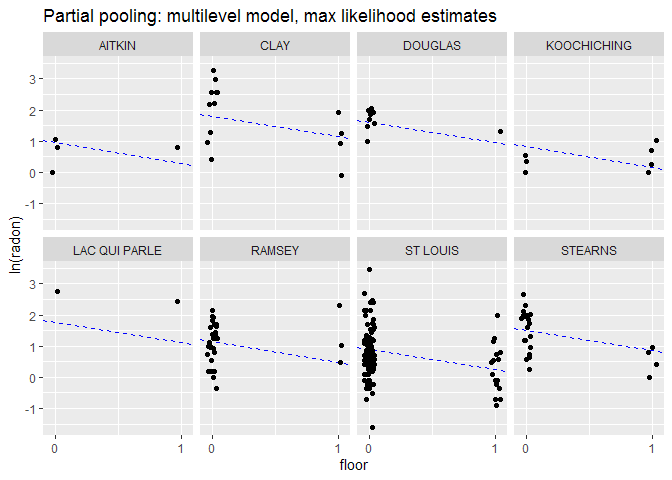
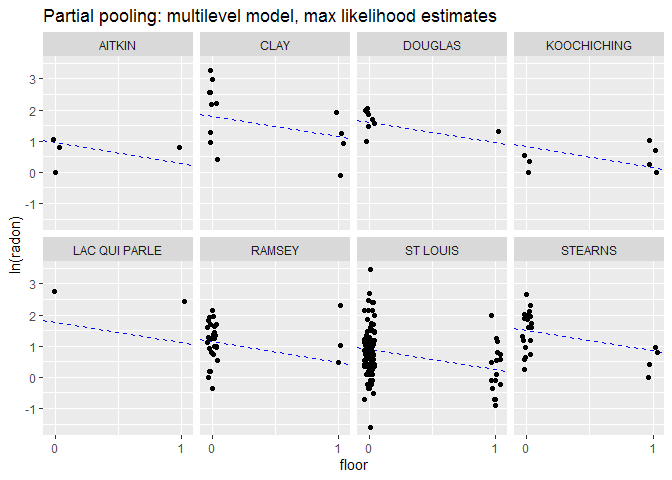
Fix equation display

diff --git a/tutorials/mlvl03_multilevel_models_3.md b/tutorials/mlvl03_multilevel_models_3.md
@@ -99,57 +99,57 @@ radon_dat <- merge(radon_dat,uranium_dat,by="county",all.x=TRUE)
 radon_dat[sample(1:nrow(radon_dat),50),] #print a sample of 50 rows to check
 ```
 
-    ##            county    floor radon  log_radon floor_x     uppm        logu
-    ## 598        RAMSEY basement   1.7  0.5306283       0 0.658327 -0.41805351
-    ## 742      ST LOUIS basement   1.9  0.6418539       0 0.622088 -0.47467372
-    ## 459      MARSHALL basement   8.3  2.1162555       0 1.013860  0.01376483
-    ## 798       STEARNS basement   2.6  0.9555114       0 1.123440  0.11639541
-    ## 356      HENNEPIN basement   2.6  0.9555114       0 0.907991 -0.09652081
-    ## 44          ANOKA    first   1.8  0.5877867       1 0.428565 -0.84731286
-    ## 145    COTTONWOOD    first   0.0 -2.3025851       1 1.404330  0.33956032
-    ## 435      LE SUEUR basement   4.5  1.5040774       0 1.214640  0.19444774
-    ## 55          ANOKA basement   1.9  0.6418539       0 0.428565 -0.84731286
-    ## 814       STEVENS basement   4.5  1.5040774       0 1.601240  0.47077833
-    ## 614          RICE basement  19.0  2.9444390       0 1.213060  0.19314609
-    ## 535       OLMSTED basement   7.8  2.0541237       0 1.275260  0.24315008
-    ## 635        ROSEAU    first   1.7  0.5306283       1 0.808928 -0.21204536
-    ## 849    WASHINGTON basement   6.5  1.8718022       0 0.862876 -0.14748428
-    ## 76     BLUE EARTH basement   7.2  1.9740810       0 1.312080  0.27161366
-    ## 519        NORMAN    first   1.6  0.4700036       1 1.303720  0.26522172
-    ## 552    PENNINGTON basement   5.8  1.7578579       0 0.928646 -0.07402767
-    ## 854    WASHINGTON basement   1.0  0.0000000       0 0.862876 -0.14748428
-    ## 85     BLUE EARTH basement   6.9  1.9315214       0 1.312080  0.27161366
-    ## 866    WASHINGTON basement   1.9  0.6418539       0 0.862876 -0.14748428
-    ## 171        DAKOTA basement   9.6  2.2617631       0 0.976144 -0.02414516
-    ## 214        DAKOTA basement   3.8  1.3350011       0 0.976144 -0.02414516
-    ## 826       WABASHA basement   5.9  1.7749524       0 1.161930  0.15008242
-    ## 239     FARIBAULT basement   0.1 -2.3025851       0 1.343160  0.29502505
-    ## 66       BELTRAMI    first   4.4  1.4816045       1 0.552472 -0.59335253
-    ## 419 LAC QUI PARLE basement  16.0  2.7725887       0 1.364830  0.31102988
-    ## 90          BROWN    first   4.0  1.3862944       1 1.319930  0.27757870
-    ## 127          CLAY basement  26.6  3.2809112       0 1.410270  0.34378118
-    ## 212        DAKOTA basement   4.8  1.5686159       0 0.976144 -0.02414516
-    ## 385        ITASCA basement   2.6  0.9555114       0 0.515124 -0.66334763
-    ## 365      HENNEPIN basement   4.2  1.4350845       0 0.907991 -0.09652081
-    ## 268      HENNEPIN basement   1.6  0.4700036       0 0.907991 -0.09652081
-    ## 800       STEARNS basement   1.9  0.6418539       0 1.123440  0.11639541
-    ## 527       OLMSTED basement   3.2  1.1631508       0 1.275260  0.24315008
-    ## 629        ROSEAU    first   3.4  1.2237754       1 0.808928 -0.21204536
-    ## 792       STEARNS    first   1.5  0.4054651       1 1.123440  0.11639541
-    ## 762      ST LOUIS    first   1.8  0.5877867       1 0.622088 -0.47467372
-    ## 329      HENNEPIN    first   7.6  2.0281482       1 0.907991 -0.09652081
-    ## 548    OTTER TAIL basement   3.2  1.1631508       0 0.814867 -0.20473037
-    ## 223         DODGE basement   7.2  1.9740810       0 1.301940  0.26385546
-    ## 867    WASHINGTON basement   6.6  1.8870696       0 0.862876 -0.14748428
-    ## 802       STEARNS basement   5.0  1.6094379       0 1.123440  0.11639541
-    ## 111          CASS basement   5.3  1.6677068       0 0.544319 -0.60821981
-    ## 502         MOWER basement   8.0  2.0794415       0 1.298140  0.26093247
-    ## 317      HENNEPIN basement   2.7  0.9932518       0 0.907991 -0.09652081
-    ## 123          CLAY    first   0.9 -0.1053605       1 1.410270  0.34378118
-    ## 364      HENNEPIN basement   3.0  1.0986123       0 0.907991 -0.09652081
-    ## 116      CHIPPEWA basement   9.4  2.2407097       0 1.314800  0.27368456
-    ## 507         MOWER basement  24.0  3.1780538       0 1.298140  0.26093247
-    ## 457      MARSHALL basement  48.2  3.8753590       0 1.013860  0.01376483
+    ##          county    floor radon   log_radon floor_x     uppm        logu
+    ## 790     STEARNS    first   2.6  0.95551145       1 1.123440  0.11639541
+    ## 645       SCOTT    first   2.0  0.69314718       1 1.065150  0.06311563
+    ## 726    ST LOUIS basement   1.1  0.09531018       0 0.622088 -0.47467372
+    ## 833      WADENA basement   2.9  1.06471074       0 0.510671 -0.67202973
+    ## 526     OLMSTED basement   2.3  0.83290912       0 1.275260  0.24315008
+    ## 251     GOODHUE basement  14.3  2.66025954       0 1.217270  0.19661065
+    ## 426        LAKE basement   1.5  0.40546511       0 0.500776 -0.69159638
+    ## 914      WRIGHT basement   9.5  2.25129180       0 0.913909 -0.09002427
+    ## 567        POLK basement   9.6  2.26176310       0 1.304880  0.26611108
+    ## 610        RICE basement   9.7  2.27212589       0 1.213060  0.19314609
+    ## 643       SCOTT basement   1.2  0.18232156       0 1.065150  0.06311563
+    ## 472      MCLEOD basement   4.4  1.48160454       0 1.150760  0.14042259
+    ## 342    HENNEPIN basement   7.6  2.02814825       0 0.907991 -0.09652081
+    ## 605     REDWOOD basement   7.4  2.00148000       0 1.442420  0.36632226
+    ## 908      WRIGHT basement   2.1  0.74193734       0 0.913909 -0.09002427
+    ## 256     GOODHUE basement  43.5  3.77276094       0 1.217270  0.19661065
+    ## 165      DAKOTA    first   2.8  1.02961942       1 0.976144 -0.02414516
+    ## 84   BLUE EARTH basement   1.8  0.58778666       0 1.312080  0.27161366
+    ## 14        ANOKA basement   0.4 -0.91629073       0 0.428565 -0.84731286
+    ## 50        ANOKA basement   1.7  0.53062825       0 0.428565 -0.84731286
+    ## 905      WRIGHT basement   6.7  1.90210753       0 0.913909 -0.09002427
+    ## 339    HENNEPIN basement   4.6  1.52605630       0 0.907991 -0.09652081
+    ## 644       SCOTT basement   3.2  1.16315081       0 1.065150  0.06311563
+    ## 41        ANOKA basement   1.4  0.33647224       0 0.428565 -0.84731286
+    ## 289    HENNEPIN basement   7.2  1.97408103       0 0.907991 -0.09652081
+    ## 523     OLMSTED basement  10.0  2.30258509       0 1.275260  0.24315008
+    ## 13        ANOKA basement   1.4  0.33647224       0 0.428565 -0.84731286
+    ## 722    ST LOUIS basement   2.3  0.83290912       0 0.622088 -0.47467372
+    ## 672    ST LOUIS basement   3.9  1.36097655       0 0.622088 -0.47467372
+    ## 89        BROWN basement   6.7  1.90210753       0 1.319930  0.27757870
+    ## 411 KOOCHICHING basement   1.7  0.53062825       0 0.414025 -0.88182892
+    ## 724    ST LOUIS basement   1.2  0.18232156       0 0.622088 -0.47467372
+    ## 897      WINONA    first   1.8  0.58778666       1 1.589170  0.46321187
+    ## 19        ANOKA basement   5.9  1.77495235       0 0.428565 -0.84731286
+    ## 903      WINONA basement  11.8  2.46809953       0 1.589170  0.46321187
+    ## 68       BENTON basement   2.7  0.99325177       0 0.866849 -0.14289048
+    ## 225     DOUGLAS basement   7.4  2.00148000       0 1.168490  0.15571232
+    ## 748    ST LOUIS    first   0.9 -0.10536052       1 0.622088 -0.47467372
+    ## 378     HUBBARD basement   1.5  0.40546511       0 0.669920 -0.40059698
+    ## 556        PINE basement   1.9  0.64185389       0 0.849343 -0.16329217
+    ## 486  MILLE LACS basement   5.7  1.74046617       0 0.810536 -0.21005952
+    ## 244    FREEBORN basement   4.2  1.43508453       0 1.251330  0.22420699
+    ## 642       SCOTT    first   2.1  0.74193734       1 1.065150  0.06311563
+    ## 312    HENNEPIN    first   0.7 -0.35667494       1 0.907991 -0.09652081
+    ## 637       SCOTT    first  19.3  2.96010510       1 1.065150  0.06311563
+    ## 653   SHERBURNE basement   2.5  0.91629073       0 0.504879 -0.68343648
+    ## 737    ST LOUIS basement   2.7  0.99325177       0 0.622088 -0.47467372
+    ## 604     REDWOOD basement   8.9  2.18605128       0 1.442420  0.36632226
+    ## 517      NORMAN basement   8.1  2.09186406       0 1.303720  0.26522172
+    ## 448        LYON basement   5.8  1.75785792       0 1.483990  0.39473441
 
 Alternatively, we could have used the function `left_join` from
 `dplyr`  
@@ -221,7 +221,10 @@ uranium as a predictor (0.1) because *logu* is accounting for most of
 the county-level variance.
 
 The following will extract the fixed effects (the estimates of
-\(\beta_0\), \(\beta_1\), \(\beta_2\)):
+![\\beta\_0](https://latex.codecogs.com/png.latex?%5Cbeta_0 "\\beta_0"),
+![\\beta\_1](https://latex.codecogs.com/png.latex?%5Cbeta_1 "\\beta_1"),
+![\\beta\_2](https://latex.codecogs.com/png.latex?%5Cbeta_2
+"\\beta_2")):
 
 ``` r
 fixef(ppfit)
@@ -231,8 +234,9 @@ fixef(ppfit)
     ##   1.4642651  -0.6664446   0.7232005
 
 The following will extract the random effects (or county errors,
-i.e. the deviations of each county from \(\beta_0\), the county-scale
-mean):
+i.e. the deviations of each county from
+![\\beta\_0](https://latex.codecogs.com/png.latex?%5Cbeta_0 "\\beta_0"),
+the county-scale mean):
 
 ``` r
 ranef(ppfit)$county
@@ -341,7 +345,9 @@ head(coef(ppfit)$county)
     ## BIG STONE    1.441176 -0.6664446 0.7232005
 
 The first coefficient column here (`(Intercept)`) is the sum of the
-overall intercept \(\beta_0\) and the county random effects. That is:
+overall intercept
+![\\beta\_0](https://latex.codecogs.com/png.latex?%5Cbeta_0 "\\beta_0")
+and the county random effects. That is:
 
 ``` r
 head( fixef(ppfit)[1] + ranef(ppfit)$county )
@@ -434,98 +440,98 @@ print(summary(ppfit_bayes)[,c("mean","sd","n_eff","Rhat")],digits=3)
 ```
 
     ##                                              mean     sd n_eff  Rhat
-    ## (Intercept)                              1.46e+00 0.0385  2616 1.000
-    ## floor_x                                 -6.66e-01 0.0686  5404 1.000
-    ## logu                                     7.24e-01 0.0935  2674 1.002
-    ## b[(Intercept) county:AITKIN]            -2.16e-02 0.1482  6227 1.000
-    ## b[(Intercept) county:ANOKA]              8.27e-03 0.1030  3006 1.001
-    ## b[(Intercept) county:BECKER]             1.31e-02 0.1464  5174 1.000
-    ## b[(Intercept) county:BELTRAMI]           1.09e-01 0.1479  3387 1.000
-    ## b[(Intercept) county:BENTON]             4.82e-03 0.1485  5428 1.000
-    ## b[(Intercept) county:BIG_STONE]         -2.43e-02 0.1474  4485 1.000
-    ## b[(Intercept) county:BLUE_EARTH]         1.23e-01 0.1300  3399 1.000
-    ## b[(Intercept) county:BROWN]              4.71e-02 0.1511  5056 1.000
-    ## b[(Intercept) county:CARLTON]           -7.00e-02 0.1345  4285 1.000
-    ## b[(Intercept) county:CARVER]             1.83e-03 0.1419  5292 0.999
-    ## b[(Intercept) county:CASS]               6.43e-02 0.1484  4251 1.000
-    ## b[(Intercept) county:CHIPPEWA]           1.30e-02 0.1423  4388 1.000
-    ## b[(Intercept) county:CHISAGO]            1.88e-02 0.1398  4775 1.000
-    ## b[(Intercept) county:CLAY]               9.39e-02 0.1234  3601 1.000
-    ## b[(Intercept) county:CLEARWATER]        -1.96e-02 0.1421  4776 1.000
-    ## b[(Intercept) county:COOK]              -3.72e-02 0.1509  5091 1.000
-    ## b[(Intercept) county:COTTONWOOD]        -6.97e-02 0.1532  3714 1.000
-    ## b[(Intercept) county:CROW_WING]          3.15e-02 0.1288  5470 1.000
-    ## b[(Intercept) county:DAKOTA]            -7.70e-02 0.0880  3861 0.999
-    ## b[(Intercept) county:DODGE]              1.54e-02 0.1506  4831 0.999
-    ## b[(Intercept) county:DOUGLAS]            4.17e-02 0.1303  4380 1.000
-    ## b[(Intercept) county:FARIBAULT]         -2.12e-01 0.1730  1903 1.001
-    ## b[(Intercept) county:FILLMORE]          -3.16e-02 0.1567  4594 1.000
-    ## b[(Intercept) county:FREEBORN]           1.27e-01 0.1463  3072 1.000
-    ## b[(Intercept) county:GOODHUE]            1.18e-01 0.1304  3378 1.000
-    ## b[(Intercept) county:HENNEPIN]          -3.11e-02 0.0724  3677 0.999
-    ## b[(Intercept) county:HOUSTON]           -1.47e-02 0.1432  5189 0.999
-    ## b[(Intercept) county:HUBBARD]            3.60e-03 0.1476  6537 0.999
-    ## b[(Intercept) county:ISANTI]             1.96e-02 0.1449  5683 1.001
-    ## b[(Intercept) county:ITASCA]            -1.98e-02 0.1283  5442 1.000
-    ## b[(Intercept) county:JACKSON]            5.51e-02 0.1434  4469 1.000
-    ## b[(Intercept) county:KANABEC]           -2.48e-02 0.1502  6463 0.999
-    ## b[(Intercept) county:KANDIYOHI]          7.96e-02 0.1560  4649 1.000
-    ## b[(Intercept) county:KITTSON]            1.08e-02 0.1532  5914 0.999
-    ## b[(Intercept) county:KOOCHICHING]       -1.18e-02 0.1354  5202 1.000
-    ## b[(Intercept) county:LAC_QUI_PARLE]      9.94e-02 0.1615  3555 1.000
-    ## b[(Intercept) county:LAKE]              -1.53e-01 0.1548  2821 1.002
-    ## b[(Intercept) county:LAKE_OF_THE_WOODS]  1.31e-01 0.1652  2707 1.000
-    ## b[(Intercept) county:LE_SUEUR]           2.18e-02 0.1419  4518 1.000
-    ## b[(Intercept) county:LINCOLN]            7.64e-02 0.1521  4302 1.000
-    ## b[(Intercept) county:LYON]               5.37e-02 0.1403  4760 1.000
-    ## b[(Intercept) county:MAHNOMEN]          -9.30e-03 0.1617  5079 0.999
-    ## b[(Intercept) county:MARSHALL]           2.77e-02 0.1365  6298 1.000
-    ## b[(Intercept) county:MARTIN]            -1.23e-01 0.1501  3121 1.000
-    ## b[(Intercept) county:MCLEOD]            -9.79e-02 0.1291  3286 1.000
-    ## b[(Intercept) county:MEEKER]            -4.76e-02 0.1427  4384 1.000
-    ## b[(Intercept) county:MILLE_LACS]        -4.17e-02 0.1551  4708 1.000
-    ## b[(Intercept) county:MORRISON]          -6.87e-02 0.1352  4190 1.001
-    ## b[(Intercept) county:MOWER]              1.44e-02 0.1234  5384 1.000
-    ## b[(Intercept) county:MURRAY]             3.28e-02 0.1629  4612 1.000
-    ## b[(Intercept) county:NICOLLET]           7.44e-02 0.1513  3823 1.000
-    ## b[(Intercept) county:NOBLES]             2.15e-02 0.1508  5391 1.000
-    ## b[(Intercept) county:NORMAN]            -4.97e-02 0.1504  4301 1.000
-    ## b[(Intercept) county:OLMSTED]           -1.60e-01 0.1218  3075 0.999
-    ## b[(Intercept) county:OTTER_TAIL]         6.78e-02 0.1359  3624 1.000
-    ## b[(Intercept) county:PENNINGTON]        -3.88e-02 0.1472  4366 1.000
-    ## b[(Intercept) county:PINE]              -1.19e-01 0.1540  3008 1.000
-    ## b[(Intercept) county:PIPESTONE]          6.97e-03 0.1435  4991 1.000
-    ## b[(Intercept) county:POLK]               5.37e-03 0.1485  4819 0.999
-    ## b[(Intercept) county:POPE]              -2.95e-02 0.1548  5036 1.000
-    ## b[(Intercept) county:RAMSEY]            -5.65e-03 0.1018  4205 1.000
-    ## b[(Intercept) county:REDWOOD]            4.43e-02 0.1436  4751 1.001
-    ## b[(Intercept) county:RENVILLE]          -8.70e-03 0.1523  4651 1.000
-    ## b[(Intercept) county:RICE]               7.49e-02 0.1349  4581 1.000
-    ## b[(Intercept) county:ROCK]              -4.64e-02 0.1520  4419 1.000
-    ## b[(Intercept) county:ROSEAU]             1.18e-01 0.1302  3764 1.001
-    ## b[(Intercept) county:SCOTT]              9.58e-02 0.1308  3342 1.001
-    ## b[(Intercept) county:SHERBURNE]          2.62e-02 0.1365  4768 1.000
-    ## b[(Intercept) county:SIBLEY]            -5.59e-02 0.1442  4514 1.000
-    ## b[(Intercept) county:ST_LOUIS]          -2.08e-01 0.0863  1661 1.001
-    ## b[(Intercept) county:STEARNS]           -3.01e-02 0.1103  6082 1.000
-    ## b[(Intercept) county:STEELE]            -2.26e-02 0.1320  5438 1.000
-    ## b[(Intercept) county:STEVENS]           -8.92e-04 0.1534  5477 1.000
-    ## b[(Intercept) county:SWIFT]             -1.06e-01 0.1515  3949 1.001
-    ## b[(Intercept) county:TODD]               3.41e-02 0.1559  5083 1.000
-    ## b[(Intercept) county:TRAVERSE]           2.40e-02 0.1461  4862 1.000
-    ## b[(Intercept) county:WABASHA]            5.54e-02 0.1369  5031 1.000
-    ## b[(Intercept) county:WADENA]             5.03e-02 0.1469  4867 1.000
-    ## b[(Intercept) county:WASECA]            -1.51e-01 0.1646  2942 1.000
-    ## b[(Intercept) county:WASHINGTON]        -2.08e-02 0.0915  4242 1.000
-    ## b[(Intercept) county:WATONWAN]           1.25e-01 0.1621  3141 1.000
-    ## b[(Intercept) county:WILKIN]             2.78e-02 0.1567  4994 0.999
-    ## b[(Intercept) county:WINONA]            -6.68e-02 0.1296  5202 0.999
-    ## b[(Intercept) county:WRIGHT]             8.12e-02 0.1237  3678 1.001
-    ## b[(Intercept) county:YELLOW_MEDICINE]   -4.60e-02 0.1570  4955 1.000
-    ## sigma                                    7.60e-01 0.0185  3595 1.000
-    ## Sigma[county:(Intercept),(Intercept)]    2.63e-02 0.0162  1072 1.004
-    ## mean_PPD                                 1.23e+00 0.0353  5487 1.000
-    ## log-posterior                           -1.18e+03 9.3683   760 1.003
+    ## (Intercept)                              1.46e+00 0.0378  2143 1.002
+    ## floor_x                                 -6.68e-01 0.0683  5357 1.000
+    ## logu                                     7.27e-01 0.0938  2764 1.000
+    ## b[(Intercept) county:AITKIN]            -2.36e-02 0.1493  5334 1.000
+    ## b[(Intercept) county:ANOKA]              1.35e-02 0.1028  3236 1.000
+    ## b[(Intercept) county:BECKER]             1.45e-02 0.1522  5439 1.000
+    ## b[(Intercept) county:BELTRAMI]           1.15e-01 0.1483  3296 1.001
+    ## b[(Intercept) county:BENTON]             1.10e-02 0.1456  5412 1.000
+    ## b[(Intercept) county:BIG_STONE]         -2.96e-02 0.1504  4825 1.001
+    ## b[(Intercept) county:BLUE_EARTH]         1.23e-01 0.1298  3018 1.003
+    ## b[(Intercept) county:BROWN]              4.60e-02 0.1507  4435 1.001
+    ## b[(Intercept) county:CARLTON]           -6.64e-02 0.1332  5351 1.000
+    ## b[(Intercept) county:CARVER]            -3.45e-04 0.1423  5645 0.999
+    ## b[(Intercept) county:CASS]               7.06e-02 0.1548  4602 1.000
+    ## b[(Intercept) county:CHIPPEWA]           1.02e-02 0.1514  5596 0.999
+    ## b[(Intercept) county:CHISAGO]            2.36e-02 0.1430  5351 1.000
+    ## b[(Intercept) county:CLAY]               9.77e-02 0.1264  3624 1.000
+    ## b[(Intercept) county:CLEARWATER]        -1.60e-02 0.1485  5275 0.999
+    ## b[(Intercept) county:COOK]              -3.49e-02 0.1542  5399 1.000
+    ## b[(Intercept) county:COTTONWOOD]        -7.46e-02 0.1556  4900 1.000
+    ## b[(Intercept) county:CROW_WING]          3.38e-02 0.1307  5544 1.000
+    ## b[(Intercept) county:DAKOTA]            -7.99e-02 0.0846  3992 1.000
+    ## b[(Intercept) county:DODGE]              1.79e-02 0.1527  5320 0.999
+    ## b[(Intercept) county:DOUGLAS]            4.06e-02 0.1329  4420 0.999
+    ## b[(Intercept) county:FARIBAULT]         -2.26e-01 0.1786  1748 1.001
+    ## b[(Intercept) county:FILLMORE]          -3.33e-02 0.1606  5342 0.999
+    ## b[(Intercept) county:FREEBORN]           1.29e-01 0.1436  3591 1.000
+    ## b[(Intercept) county:GOODHUE]            1.24e-01 0.1279  3639 1.000
+    ## b[(Intercept) county:HENNEPIN]          -3.25e-02 0.0711  3656 1.001
+    ## b[(Intercept) county:HOUSTON]           -1.76e-02 0.1436  5283 1.000
+    ## b[(Intercept) county:HUBBARD]            5.11e-03 0.1428  5571 1.000
+    ## b[(Intercept) county:ISANTI]             1.67e-02 0.1543  4686 1.000
+    ## b[(Intercept) county:ITASCA]            -2.10e-02 0.1327  5709 0.999
+    ## b[(Intercept) county:JACKSON]            5.89e-02 0.1455  5256 1.000
+    ## b[(Intercept) county:KANABEC]           -2.75e-02 0.1491  5482 0.999
+    ## b[(Intercept) county:KANDIYOHI]          7.96e-02 0.1592  4101 1.001
+    ## b[(Intercept) county:KITTSON]            1.06e-02 0.1458  5046 1.000
+    ## b[(Intercept) county:KOOCHICHING]       -1.01e-02 0.1435  5573 1.001
+    ## b[(Intercept) county:LAC_QUI_PARLE]      1.08e-01 0.1658  3299 0.999
+    ## b[(Intercept) county:LAKE]              -1.60e-01 0.1543  2700 1.001
+    ## b[(Intercept) county:LAKE_OF_THE_WOODS]  1.34e-01 0.1618  3567 1.000
+    ## b[(Intercept) county:LE_SUEUR]           2.04e-02 0.1421  5187 1.000
+    ## b[(Intercept) county:LINCOLN]            7.85e-02 0.1555  3777 1.000
+    ## b[(Intercept) county:LYON]               5.41e-02 0.1385  5379 0.999
+    ## b[(Intercept) county:MAHNOMEN]          -1.00e-02 0.1574  4642 1.000
+    ## b[(Intercept) county:MARSHALL]           2.32e-02 0.1364  5234 1.000
+    ## b[(Intercept) county:MARTIN]            -1.31e-01 0.1545  2977 1.001
+    ## b[(Intercept) county:MCLEOD]            -1.02e-01 0.1299  3761 1.000
+    ## b[(Intercept) county:MEEKER]            -4.96e-02 0.1486  5206 1.001
+    ## b[(Intercept) county:MILLE_LACS]        -3.99e-02 0.1593  4187 0.999
+    ## b[(Intercept) county:MORRISON]          -7.34e-02 0.1358  4623 0.999
+    ## b[(Intercept) county:MOWER]              1.37e-02 0.1272  5664 1.000
+    ## b[(Intercept) county:MURRAY]             3.43e-02 0.1576  4819 0.999
+    ## b[(Intercept) county:NICOLLET]           8.21e-02 0.1537  3581 1.000
+    ## b[(Intercept) county:NOBLES]             1.76e-02 0.1514  5365 0.999
+    ## b[(Intercept) county:NORMAN]            -5.32e-02 0.1472  4682 1.000
+    ## b[(Intercept) county:OLMSTED]           -1.64e-01 0.1272  2956 1.002
+    ## b[(Intercept) county:OTTER_TAIL]         7.19e-02 0.1412  4768 1.000
+    ## b[(Intercept) county:PENNINGTON]        -4.13e-02 0.1519  4928 1.000
+    ## b[(Intercept) county:PINE]              -1.26e-01 0.1567  3033 1.000
+    ## b[(Intercept) county:PIPESTONE]          5.21e-03 0.1481  5210 1.001
+    ## b[(Intercept) county:POLK]               6.37e-03 0.1477  4659 1.000
+    ## b[(Intercept) county:POPE]              -3.24e-02 0.1550  5561 1.000
+    ## b[(Intercept) county:RAMSEY]            -4.44e-03 0.1039  4707 1.000
+    ## b[(Intercept) county:REDWOOD]            4.15e-02 0.1426  5746 1.000
+    ## b[(Intercept) county:RENVILLE]          -9.41e-03 0.1475  5092 1.000
+    ## b[(Intercept) county:RICE]               7.51e-02 0.1311  4751 0.999
+    ## b[(Intercept) county:ROCK]              -5.11e-02 0.1619  4596 1.000
+    ## b[(Intercept) county:ROSEAU]             1.17e-01 0.1359  3477 1.001
+    ## b[(Intercept) county:SCOTT]              9.66e-02 0.1287  4240 1.000
+    ## b[(Intercept) county:SHERBURNE]          3.01e-02 0.1355  4397 1.001
+    ## b[(Intercept) county:SIBLEY]            -6.28e-02 0.1556  3865 1.000
+    ## b[(Intercept) county:ST_LOUIS]          -2.09e-01 0.0852  1955 1.002
+    ## b[(Intercept) county:STEARNS]           -3.15e-02 0.1081  4892 1.000
+    ## b[(Intercept) county:STEELE]            -2.54e-02 0.1314  5984 0.999
+    ## b[(Intercept) county:STEVENS]            2.54e-03 0.1612  5412 1.000
+    ## b[(Intercept) county:SWIFT]             -1.08e-01 0.1575  3287 1.000
+    ## b[(Intercept) county:TODD]               3.19e-02 0.1554  5851 0.999
+    ## b[(Intercept) county:TRAVERSE]           2.55e-02 0.1454  5120 1.000
+    ## b[(Intercept) county:WABASHA]            5.32e-02 0.1408  5034 1.000
+    ## b[(Intercept) county:WADENA]             5.37e-02 0.1468  3981 1.000
+    ## b[(Intercept) county:WASECA]            -1.57e-01 0.1673  2236 1.001
+    ## b[(Intercept) county:WASHINGTON]        -2.51e-02 0.0935  4453 1.000
+    ## b[(Intercept) county:WATONWAN]           1.32e-01 0.1675  2933 1.000
+    ## b[(Intercept) county:WILKIN]             2.29e-02 0.1609  5083 1.001
+    ## b[(Intercept) county:WINONA]            -6.99e-02 0.1311  4603 1.000
+    ## b[(Intercept) county:WRIGHT]             8.30e-02 0.1298  4619 0.999
+    ## b[(Intercept) county:YELLOW_MEDICINE]   -4.60e-02 0.1587  4879 1.000
+    ## sigma                                    7.59e-01 0.0186  3262 1.000
+    ## Sigma[county:(Intercept),(Intercept)]    2.74e-02 0.0166   960 1.004
+    ## mean_PPD                                 1.22e+00 0.0348  5172 1.000
+    ## log-posterior                           -1.18e+03 9.3602   739 1.003
 
 We see that the `Rhat`s are all close to 1, suggesting the chains have
 converged, and the effective number of replicates `n_eff` is high or
@@ -561,7 +567,7 @@ names(samples)
 str(samples$alpha) #Samples of overall mean. Matrix: samples by row, 1 col
 ```
 
-    ##  num [1:4000, 1] 1.54 1.43 1.48 1.42 1.46 ...
+    ##  num [1:4000, 1] 1.44 1.47 1.47 1.51 1.49 ...
     ##  - attr(*, "dimnames")=List of 2
     ##   ..$ iterations: NULL
     ##   ..$           : NULL
@@ -570,7 +576,7 @@ str(samples$alpha) #Samples of overall mean. Matrix: samples by row, 1 col
 str(samples$b) #Samples of county deviations. Matrix: samples by row, 86 cols
 ```
 
-    ##  num [1:4000, 1:86] 0.2377 -0.1654 0.207 -0.172 0.0802 ...
+    ##  num [1:4000, 1:86] -0.0705 -0.1191 -0.0998 -0.141 -0.0171 ...
     ##  - attr(*, "dimnames")=List of 2
     ##   ..$ iterations: NULL
     ##   ..$           : NULL
@@ -582,14 +588,15 @@ county samples.
 str(samples$beta) #Samples of $\beta$s. Matrix: samples by row, 2 cols.
 ```
 
-    ##  num [1:4000, 1:2] -0.758 -0.62 -0.687 -0.687 -0.728 ...
+    ##  num [1:4000, 1:2] -0.722 -0.604 -0.773 -0.686 -0.805 ...
     ##  - attr(*, "dimnames")=List of 2
     ##   ..$ iterations: NULL
     ##   ..$           : NULL
 
-County means in basements are alpha + b + \(\beta_2\) \* logu, so we’ll
-first derive posterior samples for the county mean and then calculate
-summaries of their posterior distributions:
+County means in basements are alpha + b +
+![\\beta\_2](https://latex.codecogs.com/png.latex?%5Cbeta_2 "\\beta_2")
+\* logu, so we’ll first derive posterior samples for the county mean and
+then calculate summaries of their posterior distributions:
 
 ``` r
 # Derive posterior samples for county means
